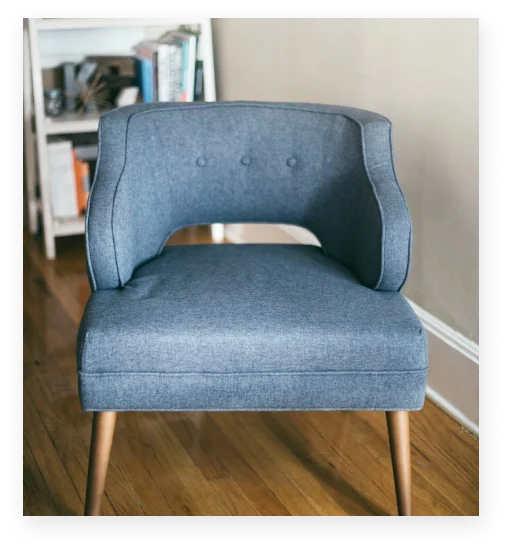
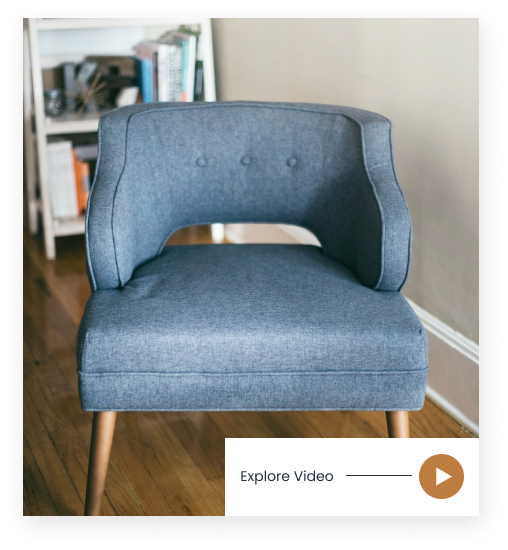
commit

Changed region(s): [[0.4429, 0.7727, 0.9449, 0.9582]]

diff --git a/src/components/Welcomesec.jsx b/src/components/Welcomesec.jsx
@@ -1,5 +1,5 @@
 import React from 'react'
-import chair from '../assets/images/png/chair.png'
+import chair from '../assets/images/png/chair.webp'
 
 function Welcomesec() {
     return (
@@ -9,28 +9,21 @@ function Welcomesec() {
                     <div className='lg:w-2/4 px-3 relative z-[1]' data-aos="fade-left">
                         <div className='relative'>
                             <img src={chair} alt="chair" className='z-[1] w-full shadow-[3px_8px_26px_ 0px_#0000001F]' />
-                            <div className='absolute w-[254px] h-[78px] bg-white flex items-center gap-4 justify-center bottom-[33px] right-[29px]'>
-                                <p className='font-Poppins text-sm font-normal text-[#243040]'>Explore Video</p>
-                                <div className='h-[1px] w-[66px] bg-[#000]'></div>
-                                <div className='w-[45px] h-[45px] rounded-full bg-[#BD7D41] flex items-center justify-center'>
-                                    <svg width="16" height="19" viewBox="0 0 16 19" fill="none" xmlns="http://www.w3.org/2000/svg">
-                                        <path d="M16 9.5L0.249999 18.5933L0.25 0.406733L16 9.5Z" fill="white" />
-                                    </svg>
-                                </div>
-                            </div>
                         </div>
                         <div className='w-[416px] h-[336px] bg-gradient1 sm:block hidden sm:absolute sm:top-[-31px] sm:left-[-27px] -z-10'></div>
                     </div>
                     <div className='lg:w-2/4  w-full  px-3 pt-5 lg:pt-0' data-aos="fade-right">
-                        <div className='flex items-center gap-2'>
+                        <div className='flex items-center gap-2 max-lg:justify-center'>
                             <div className='h-[1px] w-[95px] bg-[#000]'></div>
-                            <h2 className='text-[#BD7D41] font-Poppins text-xl font-normal'>Welcome Our Story</h2>
+                            <h2 className='text-[#BD7D41] font-Poppins text-xl font-normal max-lg:text-center'>Welcome Our Story</h2>
                         </div>
-                        <h2 className='text-[#243040] font-Poppins text-2xl sm:text-[35px] font-bold lg:max-w-[436px] pt-5'>We create the product you tell us you wish existed.</h2>
-                        <p className='font-Poppins font-normal text-lg text-[#000000B2] pt-5'>Lorem ipsum dolor sit amet, consectetur adipiscing elit. Sed faucibus, urna at pulvinar porta, augue lorem ullamcorper orci, non rhoncus nisi neque sit amet nibh. Phasellus consectetur semper ante et mattis</p>
-                        <button class="before:ease relative   font-Poppins text-xl bg-[#BD7D41]  text-center font-semibold mt-9 overflow-hidden text-white shadow-2xl transition-all before:absolute  before:h-0 before:w-64 before:origin-center before:-translate-x-24 before:rotate-45 before:bg-[#243040] before:duration-300 hover:text-white hover:shadow-[6px_13px_38px_0px_#0000001F] hover:before:h-72  hover:before:w-[80rem] hover:before:-translate-y-32 flex items-center justify-center">
-                            <span class="relative z-10 text-nowrap p-[19px_48px]">READ MORE</span>
-                        </button>
+                        <h2 className='text-[#243040] font-Poppins text-2xl sm:text-[35px] font-bold lg:max-w-[436px] pt-5 max-lg:text-center  sm:leading-normal'>We create the product you tell us you wish existed.</h2>
+                        <p className='font-Poppins font-normal text-lg text-[#000000B2] pt-5 max-lg:text-center  sm:leading-normal'>Lorem ipsum dolor sit amet, consectetur adipiscing elit. Sed faucibus, urna at pulvinar porta, augue lorem ullamcorper orci, non rhoncus nisi neque sit amet nibh. Phasellus consectetur semper ante et mattis</p>
+                        <div className='max-lg:flex max-lg:justify-center '>
+                            <button class="before:ease relative   font-Poppins text-xl bg-[#BD7D41]  text-center font-semibold mt-9 overflow-hidden text-white shadow-2xl transition-all before:absolute  before:h-0 before:w-64 before:origin-center before:-translate-x-24 before:rotate-45 before:bg-[#243040] before:duration-300 hover:text-white hover:shadow-[6px_13px_38px_0px_#0000001F] hover:before:h-72  hover:before:w-[80rem] hover:before:-translate-y-32 flex items-center justify-center ">
+                                <span class="relative z-10 text-nowrap p-[19px_48px]">READ MORE</span>
+                            </button>
+                        </div>
                     </div>
                 </div>
             </div>

diff --git a/src/components/Storesec.jsx b/src/components/Storesec.jsx
@@ -104,19 +104,19 @@ const Storesec = () => {
                 <div className='max-w-[1320px]  px-3 mx-auto'>
                     <div className='flex flex-wrap flex-row -mx-3 '>
                         <div className='md:w-5/12 w-full px-3 z-[2]' data-aos="fade-up-right">
-                            <div className='flex items-center gap-2'>
+                            <div className='flex items-center gap-2 max-lg:justify-center'>
                                 <div className='h-[1px] w-[95px] bg-[#000]'></div>
-                                <h2 className='text-[#BD7D41] font-Poppins text-xl font-normal'>Shopping Store</h2>
+                                <h2 className='text-[#BD7D41] font-Poppins text-xl font-normal max-lg:text-center'>Shopping Store</h2>
                             </div>
-                            <h2 className='text-[#243040] font-Poppins sm:text-[35px] text-2xl font-bold lg:max-w-[436px] pt-6 sm:leading-normal'>Buy trending furniture Products.</h2>
-                            <p className='font-Poppins font-normal text-lg text-[#000000B2] lg:max-w-[422px] pt-5'>Lorem ipsum dolor sit amet, consectetur adipiscing elit. Sed faucibus, urna at pulvinar porta</p>
+                            <h2 className='text-[#243040] font-Poppins sm:text-[35px] text-2xl font-bold lg:max-w-[436px] pt-6 sm:leading-normal max-lg:text-center'>Buy trending furniture Products.</h2>
+                            <p className='font-Poppins font-normal text-lg text-[#000000B2] lg:max-w-[422px] pt-5 max-lg:text-center'>Lorem ipsum dolor sit amet, consectetur adipiscing elit. Sed faucibus, urna at pulvinar porta</p>
                             <div className="flex gap-8 mt-8 relative justify-center">
-                                <button onClick={() => arrowbtn?.current?.slickPrev()} className="rounded-[10px] w-[41px] h-[41px] flex items-center justify-center bg-white absolute left-[65px] top-2 " >
+                                <button onClick={() => arrowbtn?.current?.slickPrev()} className="rounded-[10px] w-[41px] h-[41px] flex items-center justify-center bg-white lg:absolute left-[65px] top-2 " >
                                     <svg xmlns="http://www.w3.org/2000/svg" width="21" height="8" viewBox="0 0 21 8" fill="none">
                                         <path d="M20.3536 4.35355C20.5488 4.15829 20.5488 3.84171 20.3536 3.64645L17.1716 0.464466C16.9763 0.269204 16.6597 0.269204 16.4645 0.464466C16.2692 0.659728 16.2692 0.976311 16.4645 1.17157L19.2929 4L16.4645 6.82843C16.2692 7.02369 16.2692 7.34027 16.4645 7.53553C16.6597 7.7308 16.9763 7.7308 17.1716 7.53553L20.3536 4.35355ZM0 4.5H20V3.5H0V4.5Z" fill="black" />
                                     </svg>
                                 </button>
-                                <button onClick={() => arrowbtn?.current?.slickNext()} className="rounded-[10px] w-[41px] h-[41px] flex items-center justify-center bg-white absolute left-[2px] top-2" >
+                                <button onClick={() => arrowbtn?.current?.slickNext()} className="rounded-[10px] w-[41px] h-[41px] flex items-center justify-center bg-white lg:absolute left-[2px] top-2" >
                                     <svg width="21" height="8" viewBox="0 0 21 8" fill="none" xmlns="http://www.w3.org/2000/svg">
                                         <path d="M0.646446 4.35355C0.451185 4.15829 0.451185 3.84171 0.646446 3.64645L3.82843 0.464466C4.02369 0.269204 4.34027 0.269204 4.53553 0.464466C4.7308 0.659728 4.7308 0.976311 4.53553 1.17157L1.70711 4L4.53553 6.82843C4.7308 7.02369 4.7308 7.34027 4.53553 7.53553C4.34027 7.7308 4.02369 7.7308 3.82843 7.53553L0.646446 4.35355ZM21 4.5H1V3.5H21V4.5Z" fill="black" />
                                     </svg>

diff --git a/src/components/Latestsec.jsx b/src/components/Latestsec.jsx
@@ -53,7 +53,7 @@ const productcard = [
 ];
 const Latestsec = () => {
     const list = productcard.map((productcard) => (
-        <div className=" lg:max-w-[422px] w-full bg-white p-[21px]  hover:shadow-[6px_13px_38px_0px_#0000001F] mt-10 mx-3  " data-aos="flip-down" >
+        <div className=" lg:max-w-[422px] w-full bg-white p-[21px]  hover:shadow-[6px_13px_38px_0px_#0000001F] mt-10 mx-3  z-1 mb-24" data-aos="flip-down" >
             <img src={productcard.img} alt="img" className='w-full' />
             <div className='flex justify-between pt-4'>
                 <p className='font-Poppins text-xl font-medium text-[#000000]'>Single Sofa</p>
@@ -68,7 +68,7 @@ const Latestsec = () => {
             <p className='font-Poppins text-lg font-normal text-[#000000] pt-2'>Lorem ipsum dolor </p>
             <div className='pt-4 flex justify-between pb-9'>
                 <p className='font-Poppins lg:text-[29px] text-[25px] font-semibold text-[#000000]'>₹1200.00</p>
-                <button className='before:ease relative bg-[#BD7D41]  text-white font-Poppins sm:text-xl text-[15px]  text-center font-semibold text-nowrap  duration-300 overflow-hidden shadow-2xl transition-all before:absolute  before:h-0 before:w-72 before:origin-center before:-translate-x-24 before:rotate-45 before:bg-[#243040] before:duration-300 hover:text-white hover:shadow-[6px_13px_38px_0px_#0000001F] hover:before:h-72  hover:before:w-[80rem] hover:before:-translate-y-32 flex items-center justify-center'>
+                <button className='before:ease relative bg-[#BD7D41]  text-white font-Poppins lg:text-xl text-[15px]  text-center font-semibold text-nowrap  duration-300 overflow-hidden shadow-2xl transition-all before:absolute  before:h-0 before:w-72 before:origin-center before:-translate-x-24 before:rotate-45 before:bg-[#243040] before:duration-300 hover:text-white hover:shadow-[6px_13px_38px_0px_#0000001F] hover:before:h-72  hover:before:w-[80rem] hover:before:-translate-y-32 flex items-center justify-center'>
                     <span class="relative z-10 text-nowrap  lg:p-[10px_18px] p-[8px_15px]  ">ADD TO CART</span>
                 </button>
             </div>
@@ -119,13 +119,13 @@ const Latestsec = () => {
         ]
     }
     return (
-        <div className='py-24 overflow-hidden relative '>
+        <div className='pt-24 overflow-hidden relative '>
             <div className="max-w-[1320px] mx-auto px-3 " >
-                <div className='flex items-center gap-2 mx-auto'>
+                <div className='flex items-center gap-2 mx-auto  max-lg:justify-center'>
                     <div className='h-[1px] w-[95px] bg-[#000]'></div>
                     <h2 className='text-[#BD7D41] font-Poppins text-xl font-normal '>Shopping Store</h2>
                 </div>
-                <h2 className='text-[#243040] font-Poppins sm:text-[35px] text-2xl font-bold max-w-[436px] pt-5'>Latest Deal</h2>
+                <h2 className='text-[#243040] font-Poppins sm:text-[35px] text-2xl font-bold  pt-5 max-lg:text-center'>Latest Deal</h2>
                 <Slider ref={arrowbtn} {...settings}>
                     {list}
                 </Slider>

diff --git a/src/components/Woodensec.jsx b/src/components/Woodensec.jsx
@@ -7,18 +7,20 @@ function Woodensec() {
             <div className="max-w-[1140px] px-3 mx-auto">
                 <div className='flex flex-wrap flex-row -mx-3  '>
                     <div className='lg:w-4/12  w-full  px-3 relative z-[1]' data-aos="zoom-in-right">
-                        <div className='flex items-center gap-2'>
+                        <div className='flex items-center gap-2  max-lg:justify-center'>
                             <div className='h-[1px] w-[95px] bg-[#000]'></div>
                             <h2 className='text-[#BD7D41] font-Poppins text-xl font-normal '>Shopping Store</h2>
                         </div>
-                        <h2 className='text-[#243040] font-Poppins sm:text-[35px] text-2xl font-bold lg:max-w-[436px] pt-5 sm:leading-normal'>Wooden Sofa Starts From ₹1200.00</h2>
-                        <button className='before:ease relative bg-[#BD7D41]  text-white font-Poppins sm:text-xl text-[15px] mt-12  text-center font-semibold text-nowrap  duration-300 overflow-hidden shadow-2xl transition-all before:absolute  before:h-0 before:w-72 before:origin-center before:-translate-x-24 before:rotate-45 before:bg-[#243040] before:duration-300 hover:text-white hover:shadow-[6px_13px_38px_0px_#0000001F] hover:before:h-72  hover:before:w-[80rem] hover:before:-translate-y-32 flex items-center justify-center'>
-                            <span class="relative z-10 text-nowrap p-[19px_48px_19px_48px] ">SHOP NOW</span>
-                        </button>
+                        <h2 className='text-[#243040] font-Poppins sm:text-[35px] text-2xl font-bold lg:max-w-[436px] pt-5 sm:leading-normal  max-lg:text-center'>Wooden Sofa Starts From ₹1200.00</h2>
+                        <div className=' max-lg:flex max-lg:justify-center'>
+                            <button className='before:ease relative bg-[#BD7D41]  text-white font-Poppins sm:text-xl text-[15px] mt-12  text-center font-semibold text-nowrap  duration-300 overflow-hidden shadow-2xl transition-all before:absolute  before:h-0 before:w-72 before:origin-center before:-translate-x-24 before:rotate-45 before:bg-[#243040] before:duration-300 hover:text-white hover:shadow-[6px_13px_38px_0px_#0000001F] hover:before:h-72  hover:before:w-[80rem] hover:before:-translate-y-32 flex items-center justify-center'>
+                                <span class="relative z-10 text-nowrap p-[19px_48px_19px_48px] ">SHOP NOW</span>
+                            </button>
+                        </div>
                     </div>
                     <div className='lg:w-8/12  w-full pt-9 lg:pt-0' data-aos="zoom-in-left">
                         <img src={sofa} alt="chair" className='z-[1] w-full' />
-                    </div> 
+                    </div>
                 </div>
             </div>
             <div className='max-w-[741px] w-full h-full max-h-[336px] bg-[#243040] lg:absolute bottom-[-75px] right-0 -z-10'></div>

diff --git a/src/components/Productsec.jsx b/src/components/Productsec.jsx
@@ -95,15 +95,17 @@ const Productsec = () => {
     return (
         <div className='pt-24'>
             <div className="max-w-[1320px] mx-auto px-3 ">
-                <div className='flex items-center gap-2'>
+                <div className='flex items-center gap-2 max-lg:justify-center'>
                     <div className='h-[1px] w-[95px] bg-[#000]'></div>
                     <h2 className='text-[#BD7D41] font-Poppins text-xl font-normal'>Shopping Store</h2>
                 </div>
-                <div className='flex justify-between pt-5 sm:pt-0'>
-                    <h2 className='text-[#243040] font-Poppins sm:text-[35px] text-xl font-bold max-w-[436px] pt-5'>Our Products</h2>
-                    <button className='before:ease relative bg-[#BD7D41]  text-white font-Poppins sm:text-xl text-[15px]  text-center font-semibold text-nowrap  duration-300 overflow-hidden shadow-2xl transition-all before:absolute  before:h-0 before:w-72 before:origin-center before:-translate-x-24 before:rotate-45 before:bg-[#243040] before:duration-300 hover:text-white hover:shadow-[6px_13px_38px_0px_#0000001F] hover:before:h-72  hover:before:w-[80rem] hover:before:-translate-y-32 flex items-center justify-center'>
-                        <span class="relative z-10 text-nowrap sm:p-[19px_48px] p-[1px_4px]">VIEW ALL PRODUCT</span>
-                    </button>
+                <div className='lg:flex  lg:justify-between pt-5 sm:pt-0'>
+                    <h2 className='text-[#243040] font-Poppins sm:text-[35px] text-[28px] font-bold max-w-[436px] lg:pt-5 max-lg:text-center'>Our Products</h2>
+                    <div className='max-lg:flex max-lg:justify-center pt-5 lg:pt-0'>
+                        <button className='before:ease relative bg-[#BD7D41]  text-white font-Poppins text-xl text-[15px]  text-center font-semibold text-nowrap  duration-300 overflow-hidden shadow-2xl transition-all before:absolute  before:h-0 before:w-72 before:origin-center before:-translate-x-24 before:rotate-45 before:bg-[#243040] before:duration-300 hover:text-white hover:shadow-[6px_13px_38px_0px_#0000001F] hover:before:h-72  hover:before:w-[80rem] hover:before:-translate-y-32 flex items-center justify-center'>
+                            <span class="relative z-10 text-nowrap p-[19px_48px] ">VIEW ALL PRODUCT</span>
+                        </button>
+                    </div>
                 </div>
                 <div className="flex flex-wrap flex-row -mx-3 py-12 justify-center">
                     {list}

diff --git a/src/components/Cardbgsec.jsx b/src/components/Cardbgsec.jsx
@@ -5,7 +5,7 @@ function Cardbgsec() {
         <div>
             <div className="max-w-[1320px] px-3 mx-auto  md:pb-24">
                 <div className='flex max-lg:flex-wrap flex-row gap-5 justify-center -mx-3'>
-                    <div className='lg:w-1/2 w-full px-3' data-aos="fade-down-right">
+                    <div className='lg:w-1/2 w-full px-3' data-aos="flip-down-right">
                         <div className=' bg-[url(./assets/images/png/chairbg.png)] bg-no-repeat bg-center bg-size  h-[362 px] w-full   mx-auto '>
                             <div className='flex items-center gap-2 pt-10'>
                                 <div className='h-[1px] w-[88px] bg-[#000]'></div>
@@ -20,7 +20,7 @@ function Cardbgsec() {
                             </div>
                         </div>
                     </div>
-                    <div className='lg:w-1/2 w-full px-3' data-aos="fade-down-left">
+                    <div className='lg:w-1/2 w-full px-3' data-aos="flip-down-left">
                         <div className=' bg-[url(./assets/images/png/chairbg2.png)] bg-no-repeat bg-center bg-size  h-[362 px]   w-full '>
                             <div className='flex items-center gap-2 pt-10'>
                                 <div className='h-[1px] w-[88px] bg-[#000]'></div>

diff --git a/src/components/Testimonial.jsx b/src/components/Testimonial.jsx
@@ -40,13 +40,13 @@ const Testimonial = () => {
   return (
     <div className="overflow-hidden">
       <div className="max-w-[1341px] px-3 mx-auto pt-[55px] pb-[109px]" data-aos="zoom-in-up">
-        <span className="flex items-center gap-2">
+        <span className="flex items-center gap-2  max-lg:justify-center">
           <hr className="max-w-[96px] w-full h-[1px] bg-[#000000] border-t-[unset]" />
           <p className="text-[#BD7D41] font-Poppins text-lg sm:text-xl text-center font-normal leading-normal">
             Customer Says
           </p>
         </span>
-        <h2 className="text-[#243040] max-w-[436px]  font-Poppins text-2xl  sm:text-[35px] leading-normal font-bold pt-3 sm:pt-6">
+        <h2 className="text-[#243040] max-w-[436px]  font-Poppins text-2xl  sm:text-[35px] leading-normal font-bold pt-3 sm:pt-6  max-lg:text-center">
           Testimonial
         </h2>
         <div className="pt-[50px]">

diff --git a/src/components/Backtotop.jsx b/src/components/Backtotop.jsx
@@ -64,7 +64,7 @@ const Backtotop = () => {
     return (
         <div>
             <button
-                className="group animate-bounce-slow flex justify-center items-center p-2 w-[60px] h-[65px] bg-[#0109 2A]  fixed right-[1.7%] bottom-[10px] z-30 transition-all ease-linear duration-300 "
+                className="group animate-bounce-slow flex justify-center items-center p-2 w-[60px] h-[65px] bg-[#0109 2A]  fixed right-[1.7%] bottom-[10px] z-30 transition-all ease-linear duration-300 translate-y-[0%] animate-bounce "
                 onClick={scrollToTop}
                 style={{
                     display: visible ? "flex " : "none",

diff --git a/public/index.html b/public/index.html
@@ -35,7 +35,7 @@
     
     <!-- Meta Tags Generated with https://metatags.io -->
   </head>
-  <body>
+  <body class="overflow-x-hidden">
     <noscript>You need to enable JavaScript to run this app.</noscript>
     <div id="root"></div>
    
